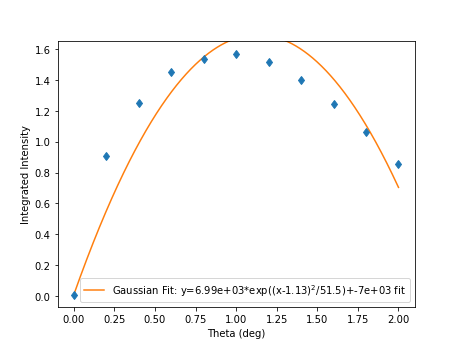
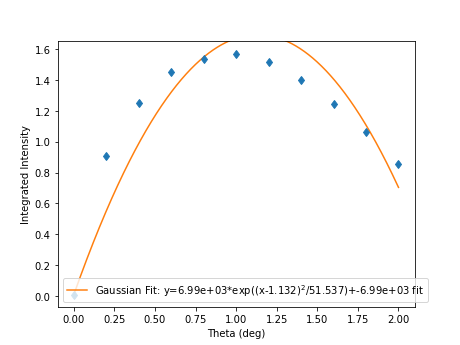
Better digit setups on fits

Changed region(s): [[0.1522, 0.8116, 0.9435, 0.8696]]

diff --git a/general/scans/fit.py b/general/scans/fit.py
@@ -164,7 +164,7 @@ class PolyFit(Fit):
         # pylint: disable=arguments-differ
         xs = ["x^{}".format(i) for i in range(1, len(params))]
         xs = ([""] + xs)[::-1]
-        terms = ["{:0.3g}".format(t) + i for i, t in zip(xs, params)]
+        terms = [smart_number_format(t) + i for i, t in zip(xs, params)]
         return self._title + ": $y = " + " + ".join(terms) + "$"
 
 
@@ -329,9 +329,12 @@ class GaussianFit(CurveFit):
     def title(self, params):
         # pylint: disable=arguments-differ
         params = self.readable(params)
+        for k in params:
+            if isinstance(params[k], float):
+                params[k] = smart_number_format(params[k])
         return (self._title + ": " +
-                "y={amplitude:.3g}*exp((x-{center:.3g})$^2$" +
-                "/{sigma:.3g})+{background:.1g}").format(**params)
+                "y={amplitude:}*exp((x-{center:})$^2$" +
+                "/{sigma:})+{background:}").format(**params)
 
 
 class DampedOscillatorFit(CurveFit):
@@ -380,10 +383,13 @@ class DampedOscillatorFit(CurveFit):
     def title(self, params):
         # pylint: disable=arguments-differ
         params = self.readable(params)
+        for k in params:
+            if isinstance(params[k], float):
+                params[k] = smart_number_format(params[k])
         return (self._title + ": " +
-                "y={amplitude:.3g}*exp(-((x-{center:.3g})" +
-                "/{width:.3g})$^2$)*" +
-                "cos({frequency:.3g}*(x-{center:.3g}))").format(**params)
+                "y={amplitude:}*exp(-((x-{center:})" +
+                "/{width:})$^2$)*" +
+                "cos({frequency:}*(x-{center:}))").format(**params)
 
 
 class ErfFit(CurveFit):
@@ -431,7 +437,10 @@ class ErfFit(CurveFit):
     def title(self, fit):
         # pylint: disable=arguments-differ
         params = self.readable(fit)
-        return "Edge at {center:.3g}".format(**params)
+        for k in params:
+            if isinstance(params[k], float):
+                params[k] = smart_number_format(params[k])
+        return "Edge at {center:}".format(**params)
 
 
 class TopHatFit(CurveFit):
@@ -477,7 +486,10 @@ class TopHatFit(CurveFit):
     def title(self, fit):
         # pylint: disable=arguments-differ
         params = self.readable(fit)
-        return "Top Hat at {center:.3g} of width {width:.3g}".format(**params)
+        for k in params:
+            if isinstance(params[k], float):
+                params[k] = smart_number_format(params[k])
+        return "Top Hat at {center:} of width {width:}".format(**params)
 
 
 class CentreOfMassFit(Fit):
@@ -574,6 +586,15 @@ class CentreOfMassFit(Fit):
             axis.legend([self.title(params)])
             return params
         return action
+
+
+def smart_number_format(x):
+    """Turn numbers into strings with a smart number of digits"""
+    if abs(x) >= 1000:
+        return "{:.2e}".format(x)
+    if abs(x) < 0.1:
+        return "{:.2e}".format(x)
+    return "{:.3f}".format(x)
 
 
 #: A linear regression
